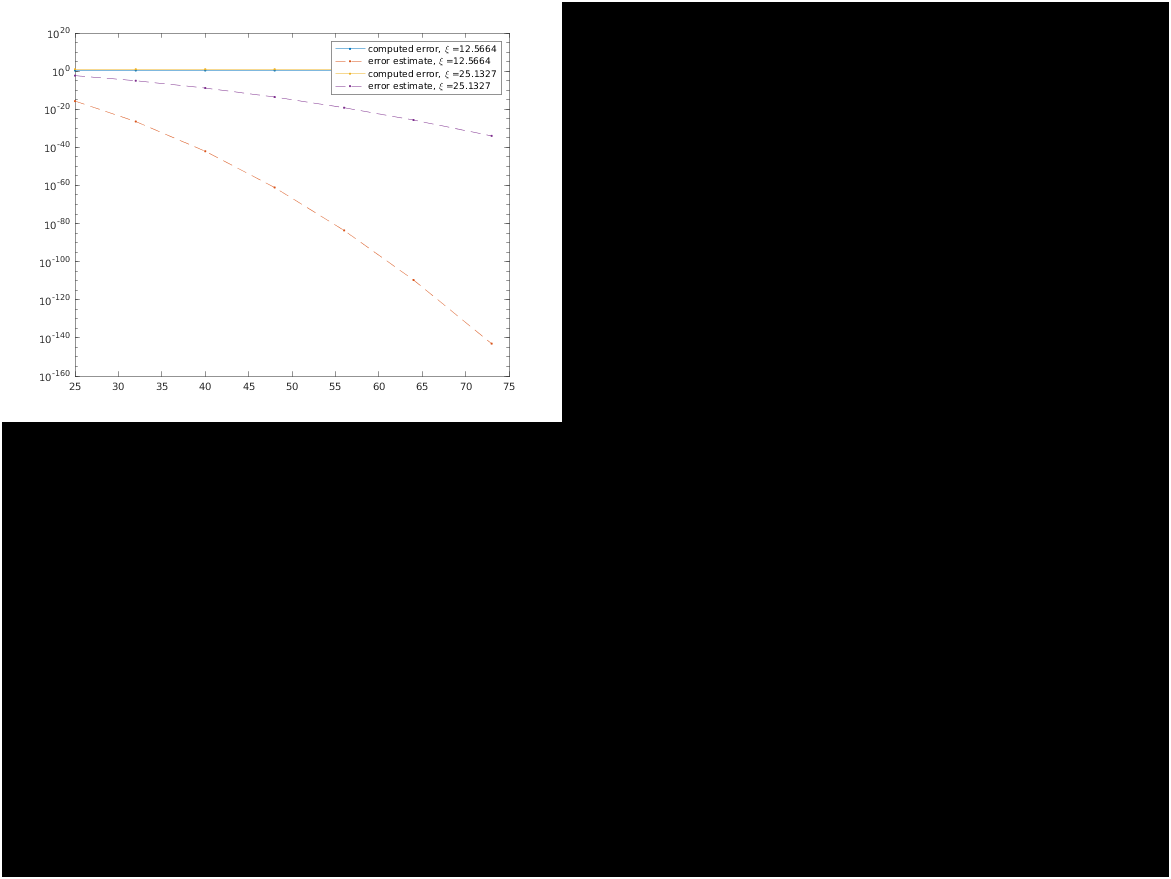
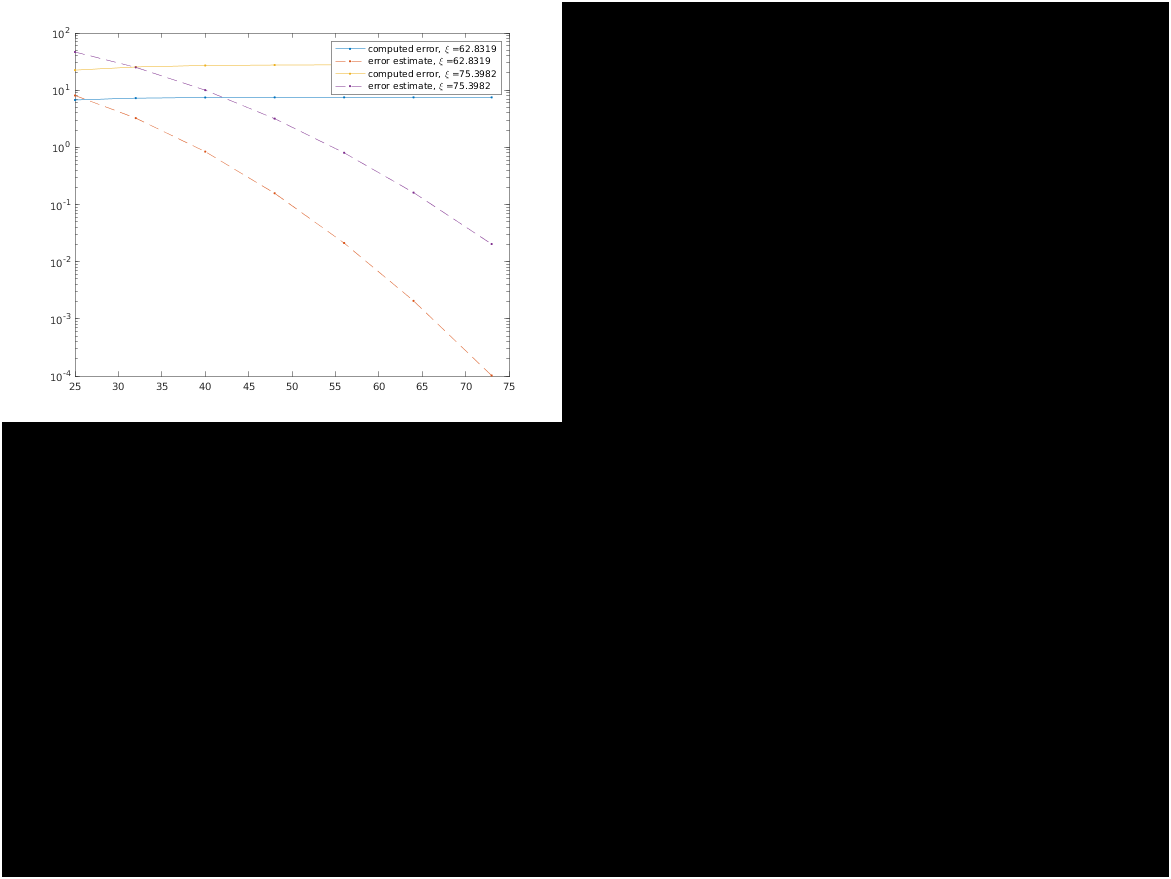
figure

diff --git a/SE_Stokes_run/SE3P_Stokes/param_select.m b/SE_Stokes_run/SE3P_Stokes/param_select.m
@@ -27,7 +27,7 @@ opt.betaP = 2.5;
 ED_opt.layers = (opt.M(1)-1)/2;
 ED_opt.box = box;
 refv = [];
-xx = (4:4:8)*pi;
+xx = (20:4:24)*pi;
 
     %% Direct solution
     if(~exist('refval.mat'))
